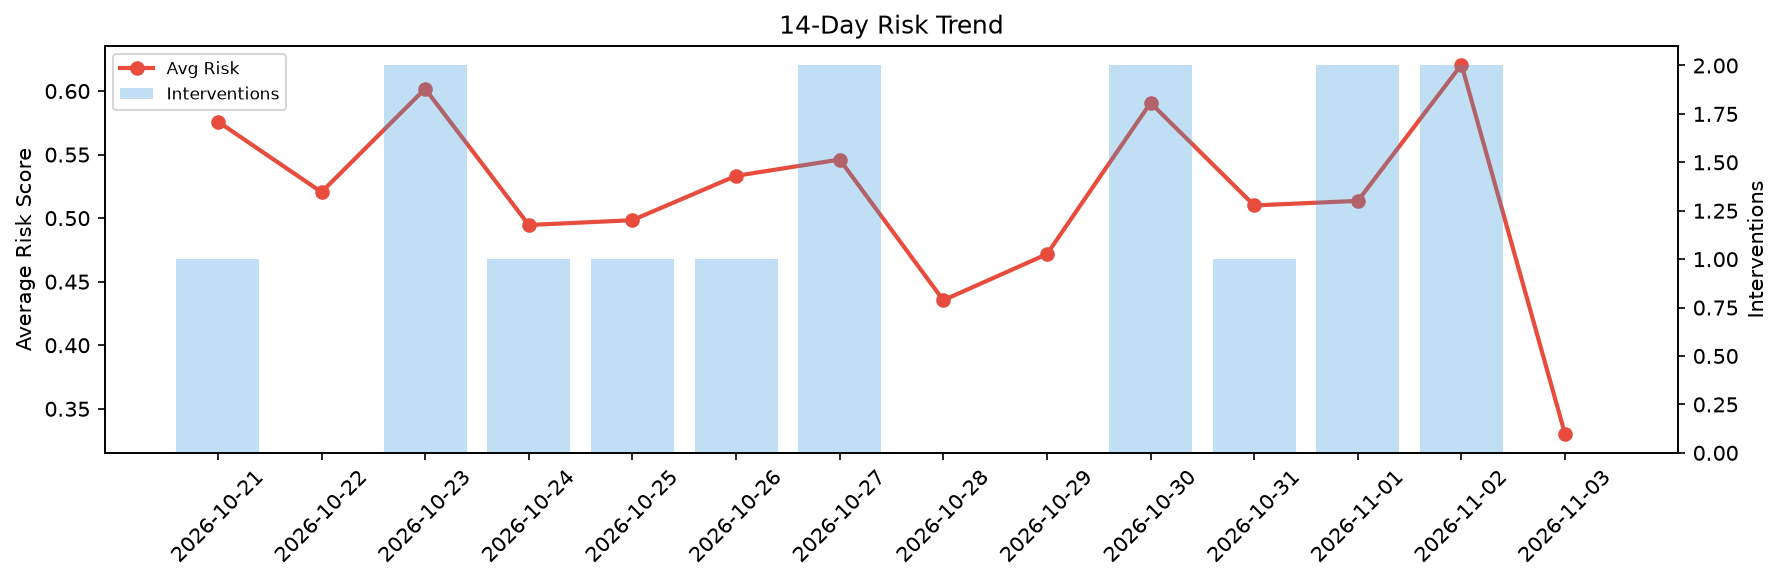
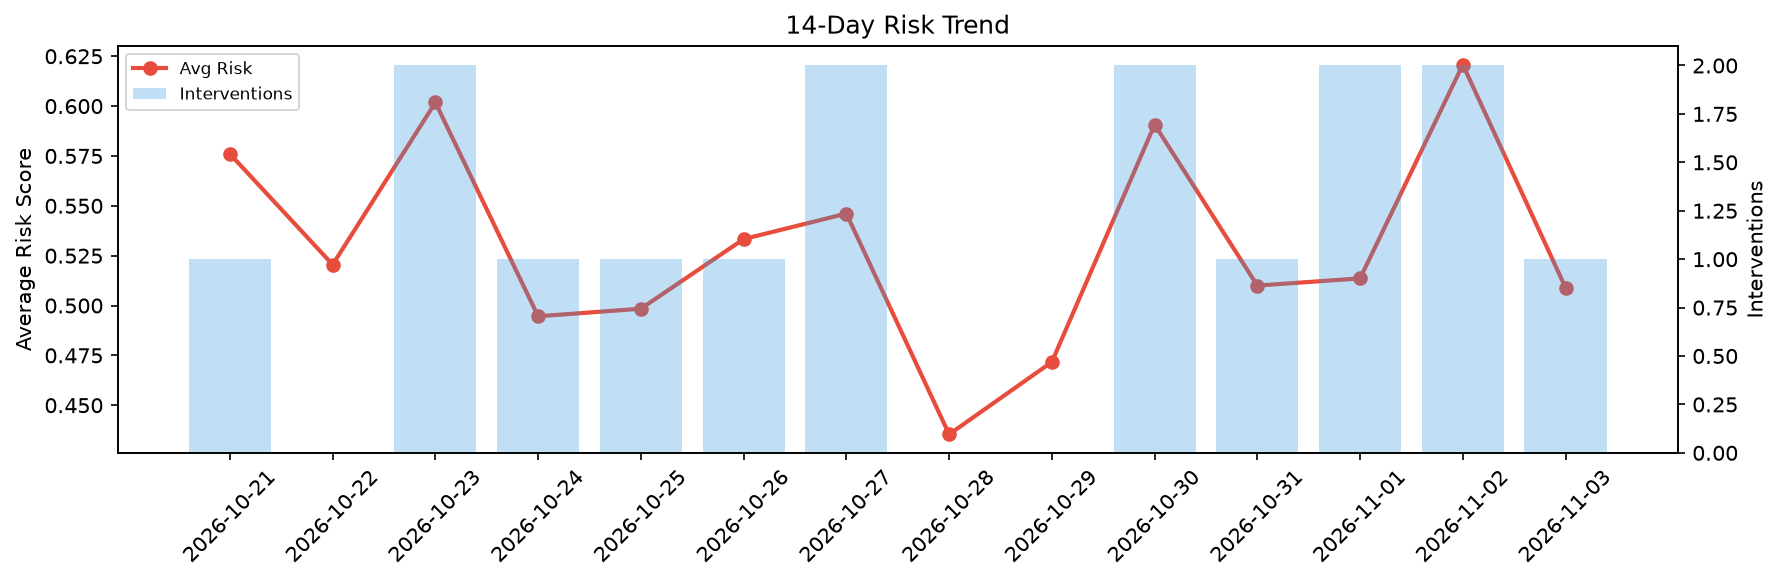
agent-improvement: daily cycle 2026-11-03T09:29

diff --git a/logs/2026-11-03.md b/logs/2026-11-03.md
@@ -1,6 +1,6 @@
 # Agent Improvement Report — 2026-11-03
 
-**Cycle ID:** `2845d0e5` | **Avg Risk:** 0.3299 | **Interventions:** 0/4
+**Cycle ID:** `2077b7f5` | **Avg Risk:** 0.5089 | **Interventions:** 1/4
 
 ![Dashboard](2026-11-03_dashboard.png)
 
@@ -10,18 +10,18 @@
 
 | Domain | Risk Score | Decision | Alerts |
 |--------|-----------|----------|--------|
-| code_review | 0.5897 | monitor | complexity |
-| incident_response | 0.2204 | monitor | none |
-| data_pipeline | 0.156 | monitor | none |
-| deployment | 0.3533 | monitor | none |
+| code_review | 0.5966 | monitor | coverage |
+| incident_response | 0.6007 | intervene | none |
+| data_pipeline | 0.588 | monitor | freshness |
+| deployment | 0.2501 | monitor | none |
 
 ## Delta vs Yesterday
 
 | Domain | Today | Yesterday | Change |
 |--------|-------|-----------|--------|
-| code_review | 0.5897 | 0.5764 | 📈 2.3% |
-| incident_response | 0.2204 | 0.6914 | 📉 -68.1% |
-| data_pipeline | 0.156 | 0.7144 | 📉 -78.2% |
-| deployment | 0.3533 | 0.501 | 📉 -29.5% |
+| code_review | 0.5966 | 0.5764 | 📈 3.5% |
+| incident_response | 0.6007 | 0.6914 | 📉 -13.1% |
+| data_pipeline | 0.588 | 0.7144 | 📉 -17.7% |
+| deployment | 0.2501 | 0.501 | 📉 -50.1% |
 
 **Refinement:** `{'adjustment': 'maintain', 'trend': 'improving', 'window': 4}`
